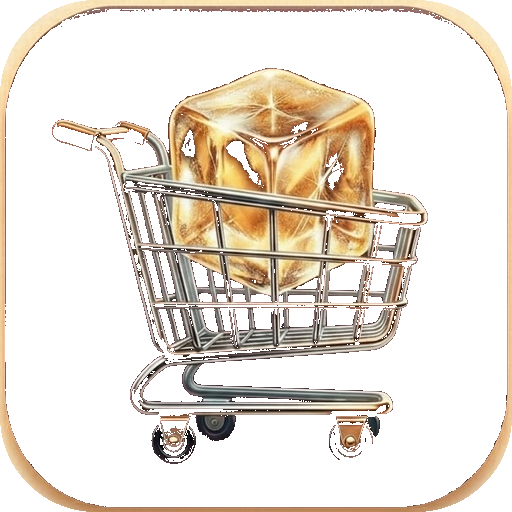
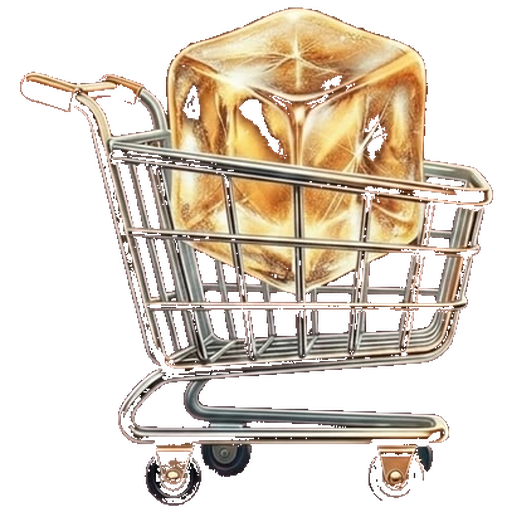
Add files via upload

diff --git a/marketplace-pro/public/style.css b/marketplace-pro/public/style.css
@@ -140,7 +140,7 @@ input::placeholder, textarea::placeholder { color: var(--text-muted); }
   color: var(--accent-text-on);
   text-shadow: 0 1px 2px rgba(0,0,0,0.35);
 }
-.brand-logo-img { display: block; height: 34px; width: auto; border-radius: 8px; filter: drop-shadow(0 1px 1px rgba(0,0,0,0.25)); }
+.brand-logo-img { display: block; height: 48px; width: auto; filter: drop-shadow(0 1px 1px rgba(0,0,0,0.25)); }
 .brand-logo-dark { display: none; }
 [data-theme="dark"] .brand-logo-light { display: none; }
 [data-theme="dark"] .brand-logo-dark { display: block; }
